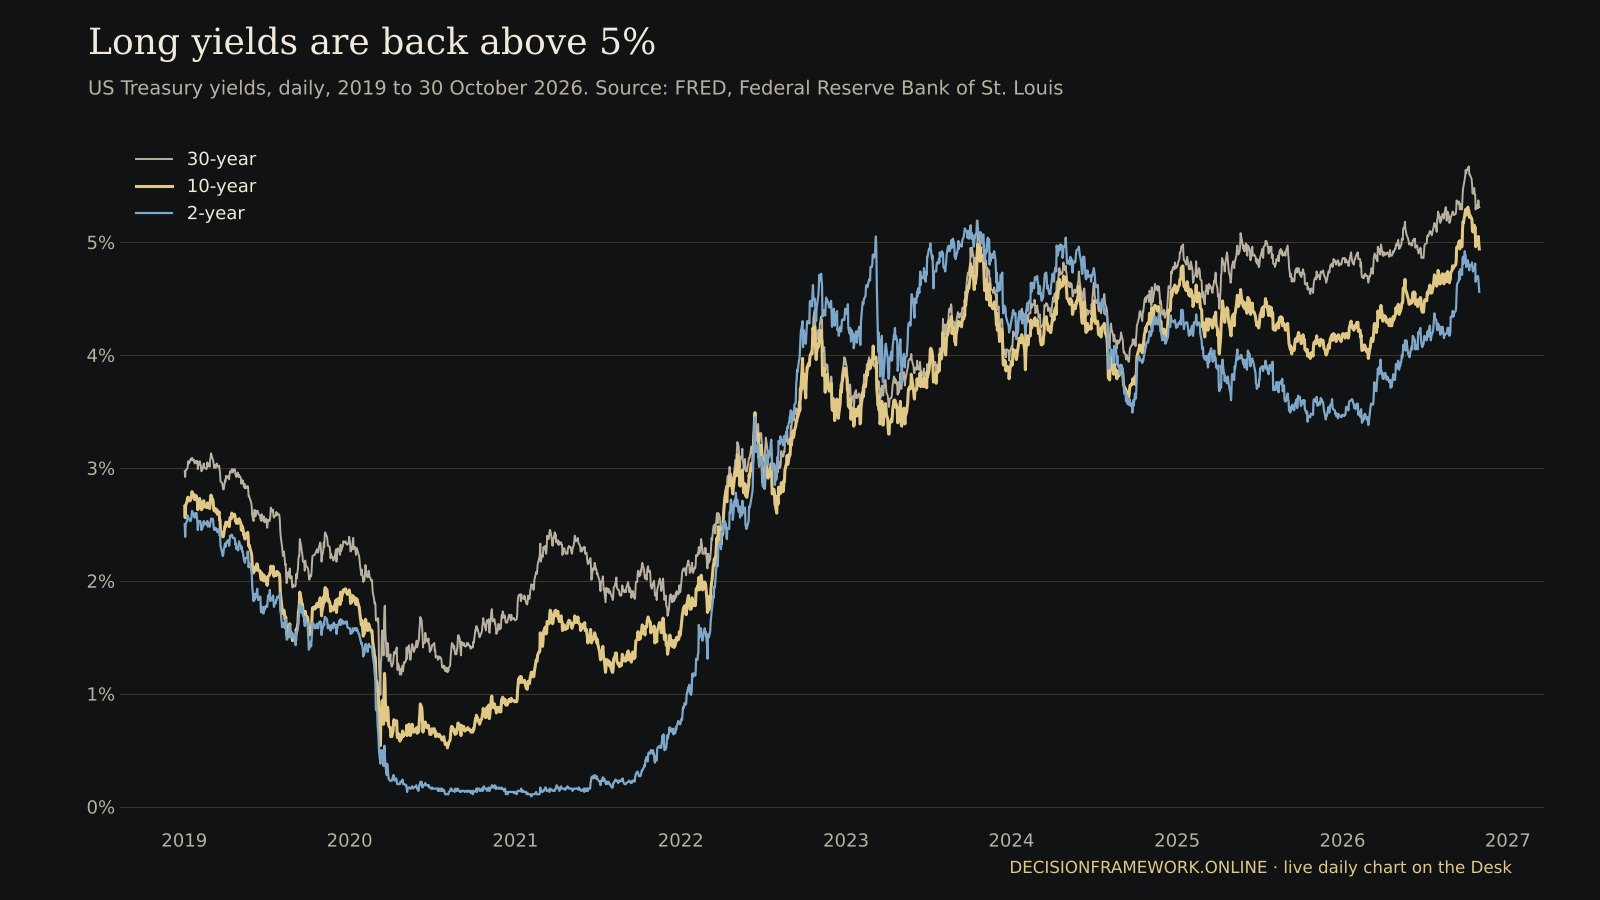
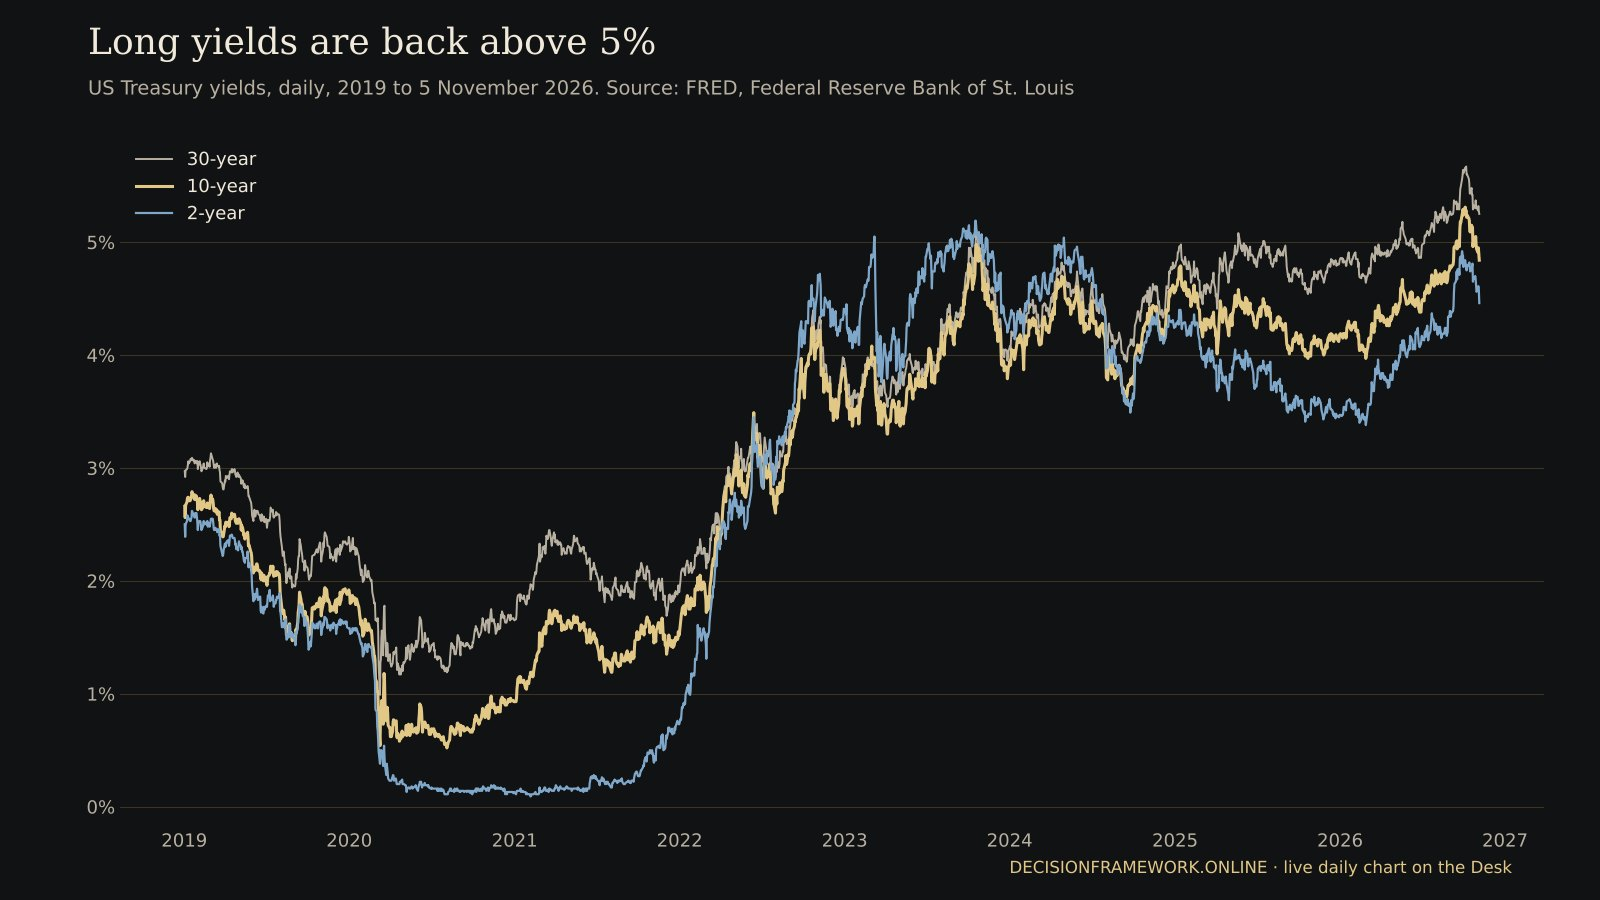
Dollar balance: update to the 6 November close, add the US CPI preview for 10 November
Claude-Session: https://claude.ai/code/session_01JQcP75aZYHsFsNqwmTYdYP

diff --git a/dollar-balance.html b/dollar-balance.html
@@ -50,27 +50,29 @@ h2{font-size:clamp(1.7rem,3.4vw,2.4rem)}
   <div class="eyebrow">Dollar &amp; rates &middot; Where inflation gets weighed</div>
   <h1>The Dollar Balance</h1>
   <p class="subtitle">Every inflation number in the world ends up weighed in three places: interest rates, the dollar, and gold and commodities.</p>
-  <p class="caption">Weekly snapshot: closes of Friday 30 October 2026 &middot; updated every week &middot; live on the Desk</p>
+  <p class="caption">Weekly snapshot: closes of Friday 6 November 2026 &middot; updated every week &middot; next: US CPI on Tuesday 10 November</p>
 </header>
 
 <div class="wrap article">
   <main>
     <div class="stats">
-      <div class="stat"><div class="k">10-year Treasury</div><div class="v">4.94%</div><div class="n">30 October. Down from 5.00% a week earlier; 4.11% a year ago</div></div>
-      <div class="stat"><div class="k">2-year Treasury</div><div class="v">4.56%</div><div class="n">Down from 4.69% a week earlier</div></div>
-      <div class="stat"><div class="k">High-yield spread</div><div class="v">3.44%</div><div class="n">Up from 3.38% a week earlier; calm below about 3%, stress above 4%</div></div>
+      <div class="stat"><div class="k">10-year Treasury</div><div class="v">4.86%</div><div class="n">6 November. Down from 4.93% a week earlier; 4.11% a year ago</div></div>
+      <div class="stat"><div class="k">2-year Treasury</div><div class="v">4.51%</div><div class="n">Down from 4.59% a week earlier</div></div>
+      <div class="stat"><div class="k">Dollar index (DXY)</div><div class="v">102.28</div><div class="n">Up from 101.96 a week earlier</div></div>
     </div>
-    <p class="asof">Closes of Friday 30 October 2026, from FRED (Federal Reserve H.15 yields; ICE BofA high-yield spread). The 30-year yield closed at 5.31% and the 2s10s curve at +0.38 points. Updated weekly here, nightly on the Desk.</p>
+    <p class="asof">Closes of Friday 6 November 2026: Treasury yields and the dollar index from TradingView market data, stored nightly by the Desk; high-yield spread from FRED (5 November, the latest published). The 30-year yield closed at 5.26% and the 2s10s curve at +0.35 points. Updated weekly here, nightly on the Desk.</p>
 
-    <p class="lead">Long US yields are back above 5% at the 30-year and near it at the 10-year, almost a full point higher than a year ago. The curve is positive again and credit spreads are still calm. The bond market is pricing sticky inflation, not a crisis.</p>
+    <p class="lead">Yields eased last week, the 2-year most, while the dollar firmed to 102.3. The 30-year still sits above 5% and the 10-year is three quarters of a point above a year ago: the bond market is pricing sticky inflation, not a crisis. Tuesday&rsquo;s US inflation report decides the next step.</p>
 
     <div class="fig">
       <div class="ttl">US Treasury yields since 2019</div>
-      <img src="/images/dollar-balance-chart.jpg" alt="Line chart of US 2-year, 10-year and 30-year Treasury yields from 2019 to October 2026: near zero in 2020 and 2021, above 4% since 2023, and the 30-year above 5% in 2026" width="1600" height="900" loading="lazy">
-      <div class="cap">Static snapshot to 30 October 2026. Source: FRED, series DGS2, DGS10, DGS30.</div>
+      <img src="/images/dollar-balance-chart.jpg" alt="Line chart of US 2-year, 10-year and 30-year Treasury yields from 2019 to November 2026: near zero in 2020 and 2021, above 4% since 2023, and the 30-year above 5% in 2026" width="1600" height="900" loading="lazy">
+      <div class="cap">Static snapshot to 5 November 2026. Source: FRED, series DGS2, DGS10, DGS30.</div>
     </div>
 
 <div class="cta"><span class="badge">Live on the Desk</span><h3>The dollar balance, updated every night</h3><p>The curve today against a month and a year ago, credit stress, the inflation calendar and the Fed hike odds after every release.</p><a class="big" href="https://desk.decisionframework.online/dollar-balance">Open the live Desk &rarr;</a></div>
+
+    <div class="week"><div class="k">Next week &middot; Tuesday 10 November, 14:30 Brussels (08:30 New York)</div><p>US consumer prices for October. September&rsquo;s CPI came in at 3.7% against 3.6% expected and briefly lifted the odds of a Fed hike, before the 2-year yield rallied back overnight. Watch the same three needles on Tuesday: the 2-year yield, the dollar and gold. A hot number that the 2-year shrugs off again would say the market no longer fears a hike.</p></div>
 
     <h2>Why yields, the dollar and gold move together</h2>
     <p>An inflation number moves a market only through what it changes about interest rates. Hot inflation means a central bank has to stay tight; soft inflation lets it ease. The gap between those expectations moves currencies: when Europe runs hot and the US runs soft, the euro rises and the dollar falls. The dollar is the net sum of all those moves, the needle on the scale.</p>
@@ -78,10 +80,10 @@ h2{font-size:clamp(1.7rem,3.4vw,2.4rem)}
     <div class="chain">Watch three needles: the 2-year yield for what the Fed will do, the 10-year real yield for gold&rsquo;s opportunity cost, and the dollar for the net verdict. Whatever does not show up in one of them shows up in another.</div>
 
     <h2>What the yield curve says</h2>
-    <p>The 2s10s, the 10-year yield minus the 2-year, was deeply inverted in 2022 and 2023, the classic warning that markets expected rate cuts and slower growth. It is now positive again at +0.38 points. A curve that steepens because long yields rise, as now, says investors want more pay to hold long debt: a sign of inflation worry and heavy government borrowing rather than recession.</p>
+    <p>The 2s10s, the 10-year yield minus the 2-year, was deeply inverted in 2022 and 2023, the classic warning that markets expected rate cuts and slower growth. It is now positive again at +0.35 points. A curve that steepens because long yields rise, as now, says investors want more pay to hold long debt: a sign of inflation worry and heavy government borrowing rather than recession.</p>
 
     <h2>Credit stress: the early warning</h2>
-    <p>The high-yield spread is what the riskiest US companies pay above Treasuries. When it widens, lenders pull back and leveraged positions are cut everywhere, metals and oil included. At 3.44% it sits just above calm. A move above 4% would be the first sign that the inflation story is turning into a deflationary squeeze.</p>
+    <p>The high-yield spread is what the riskiest US companies pay above Treasuries. When it widens, lenders pull back and leveraged positions are cut everywhere, metals and oil included. At 3.48% it sits just above calm. A move above 4% would be the first sign that the inflation story is turning into a deflationary squeeze.</p>
     <p>Related: <a href="/real-rates-and-the-dollar.html">real rates and the dollar</a> &middot; <a href="/crack-spreads.html">crack spreads</a> &middot; <a href="/metal-ratios.html">metal ratios</a> &middot; <a href="/commodity-etf-guide.html">the commodity ETF guide</a></p>
 
 <div class="cta"><span class="badge">Private Client</span><h3>See tonight&rsquo;s balance, not last Friday&rsquo;s</h3><p>The Desk updates the curve, credit stress and Fed hike odds every night, and logs what each inflation release did to gold and silver.</p><a class="big" href="https://desk.decisionframework.online/dollar-balance">Open the live Desk &rarr;</a></div>
@@ -110,13 +112,13 @@ h2{font-size:clamp(1.7rem,3.4vw,2.4rem)}
     <h3>This week in brief</h3>
     <dl>
       <dt>10-year</dt>
-      <dd>4.94% on 30 October, almost a point above a year ago.</dd>
+      <dd>4.86% on 6 November, three quarters of a point above a year ago.</dd>
       <dt>Curve</dt>
-      <dd>2s10s at +0.38: positive, long yields leading.</dd>
+      <dd>2s10s at +0.35: positive, long yields leading.</dd>
       <dt>Credit</dt>
-      <dd>High-yield spread 3.44%: calm, but watch 4%.</dd>
-      <dt>Updated</dt>
-      <dd>Weekly here; nightly on the Desk.</dd>
+      <dd>High-yield spread 3.48%: calm, but watch 4%.</dd>
+      <dt>Next</dt>
+      <dd>US CPI, Tuesday 10 November, 14:30 Brussels.</dd>
     </dl>
     <p style="margin-top:24px"><a class="button" href="https://desk.decisionframework.online/dollar-balance" style="background:var(--light);color:#17120a;font-weight:bold">Live on the Desk &rarr;</a></p>
     <p style="margin-top:10px"><a class="button" href="/private-client.html">Private Client &rarr;</a></p>
